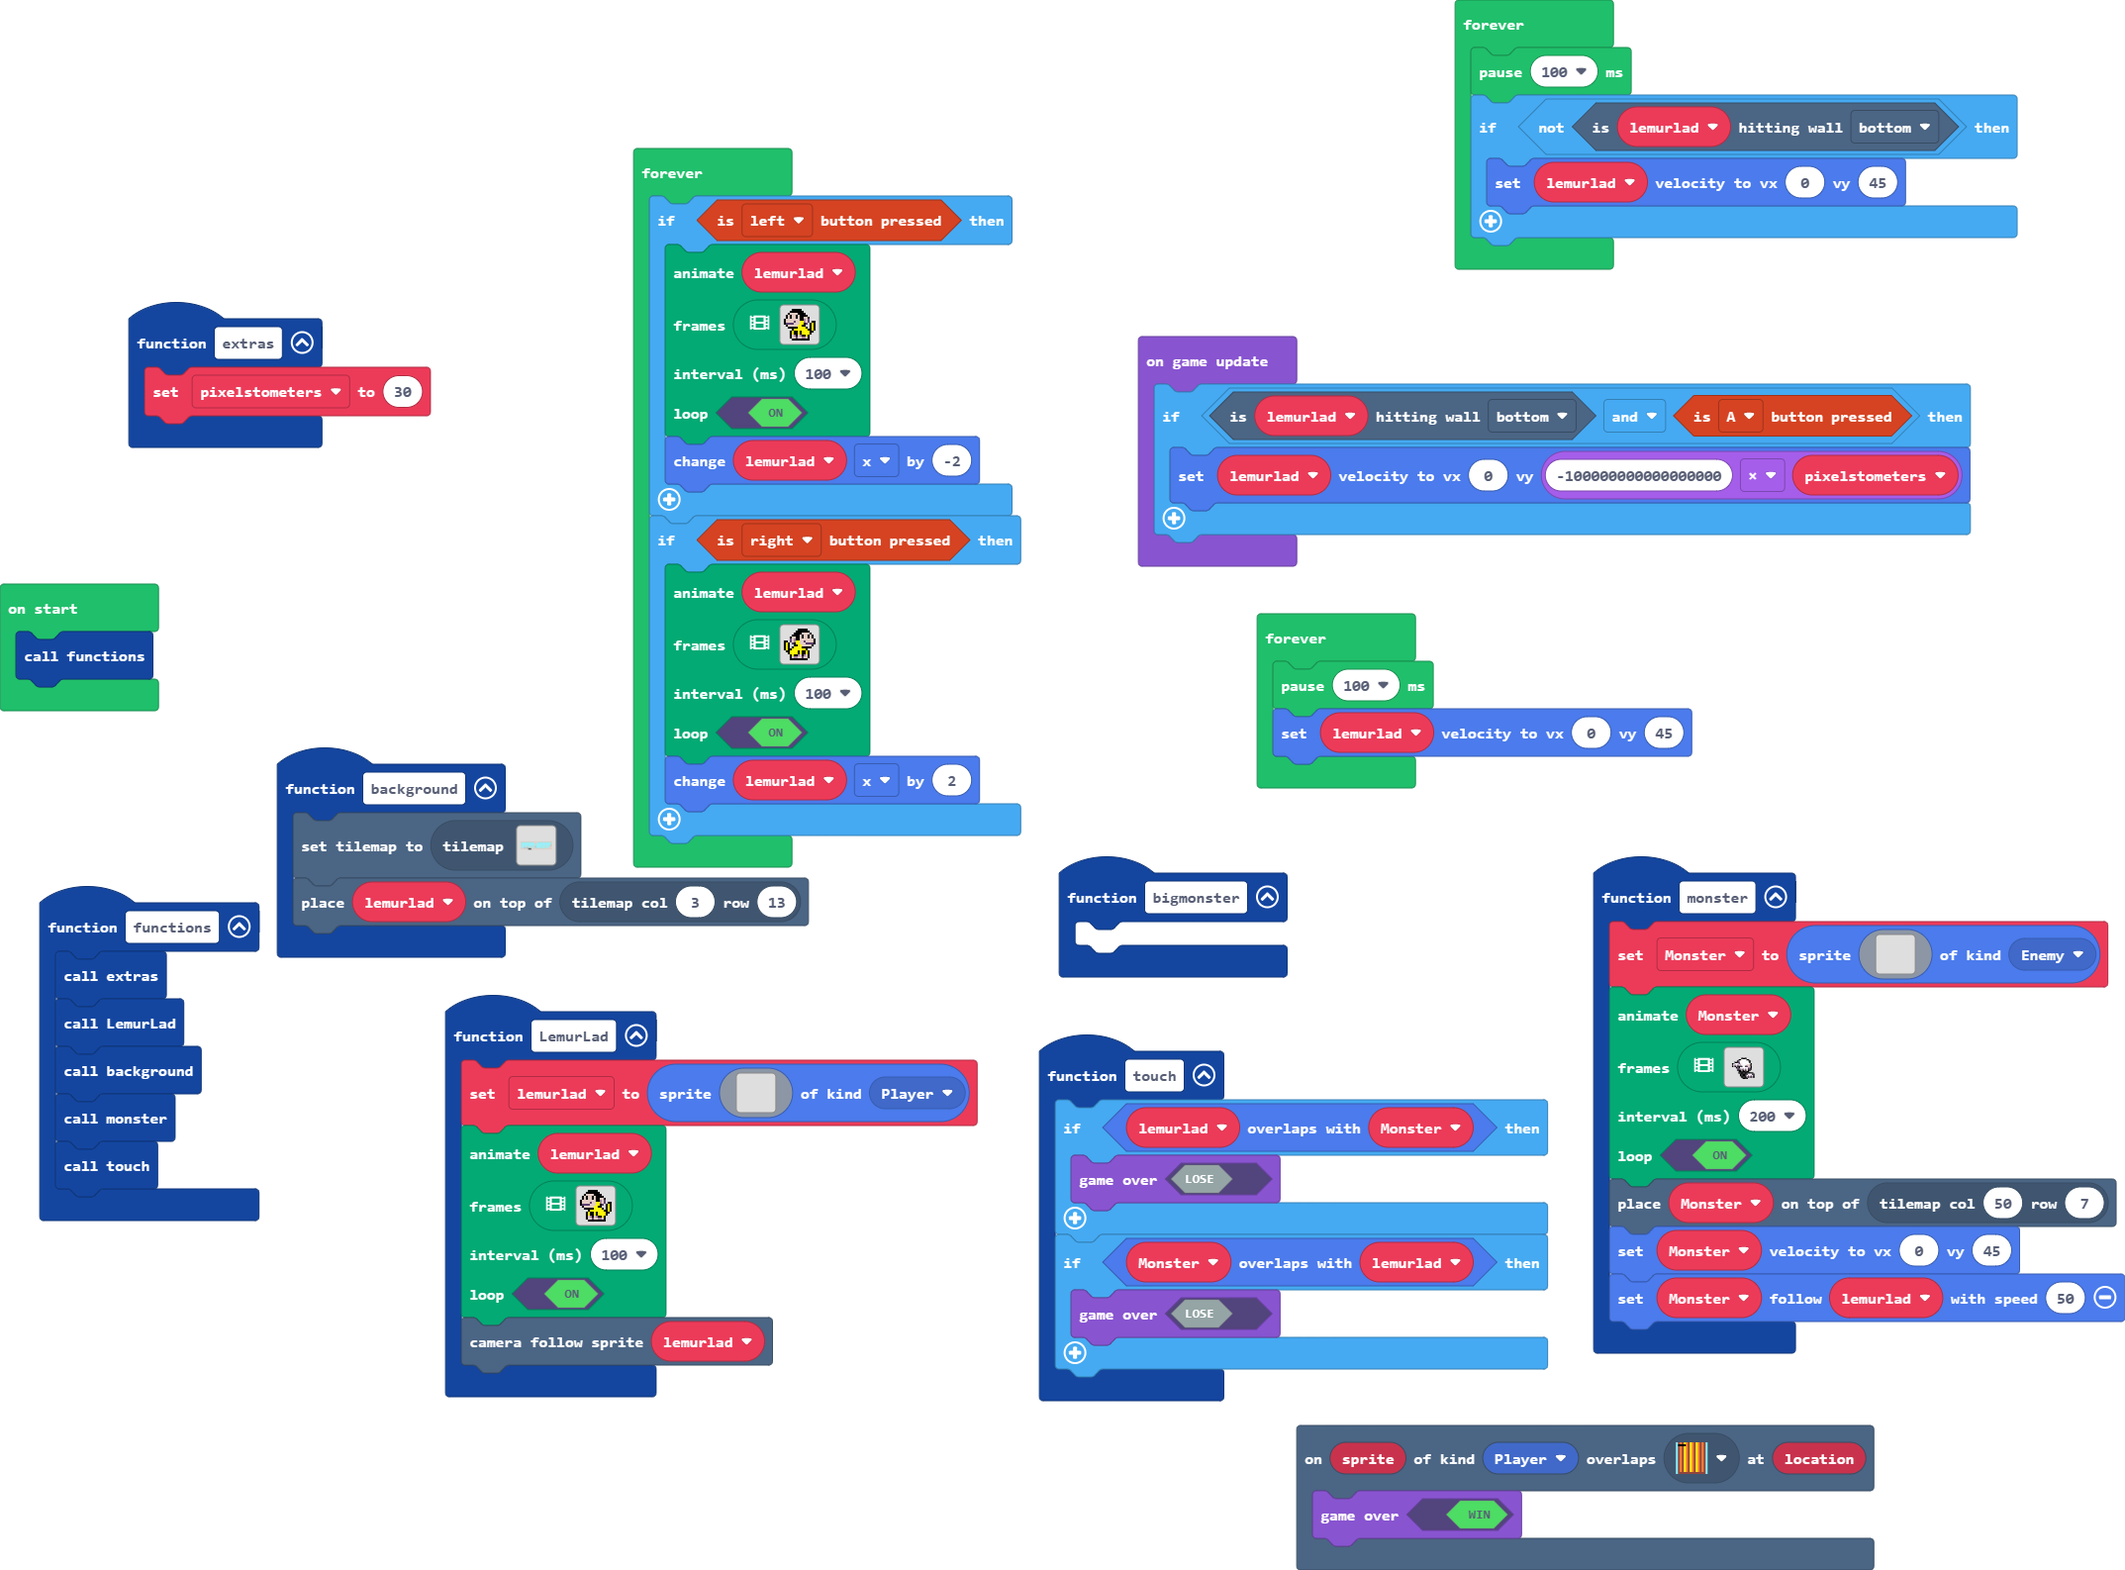
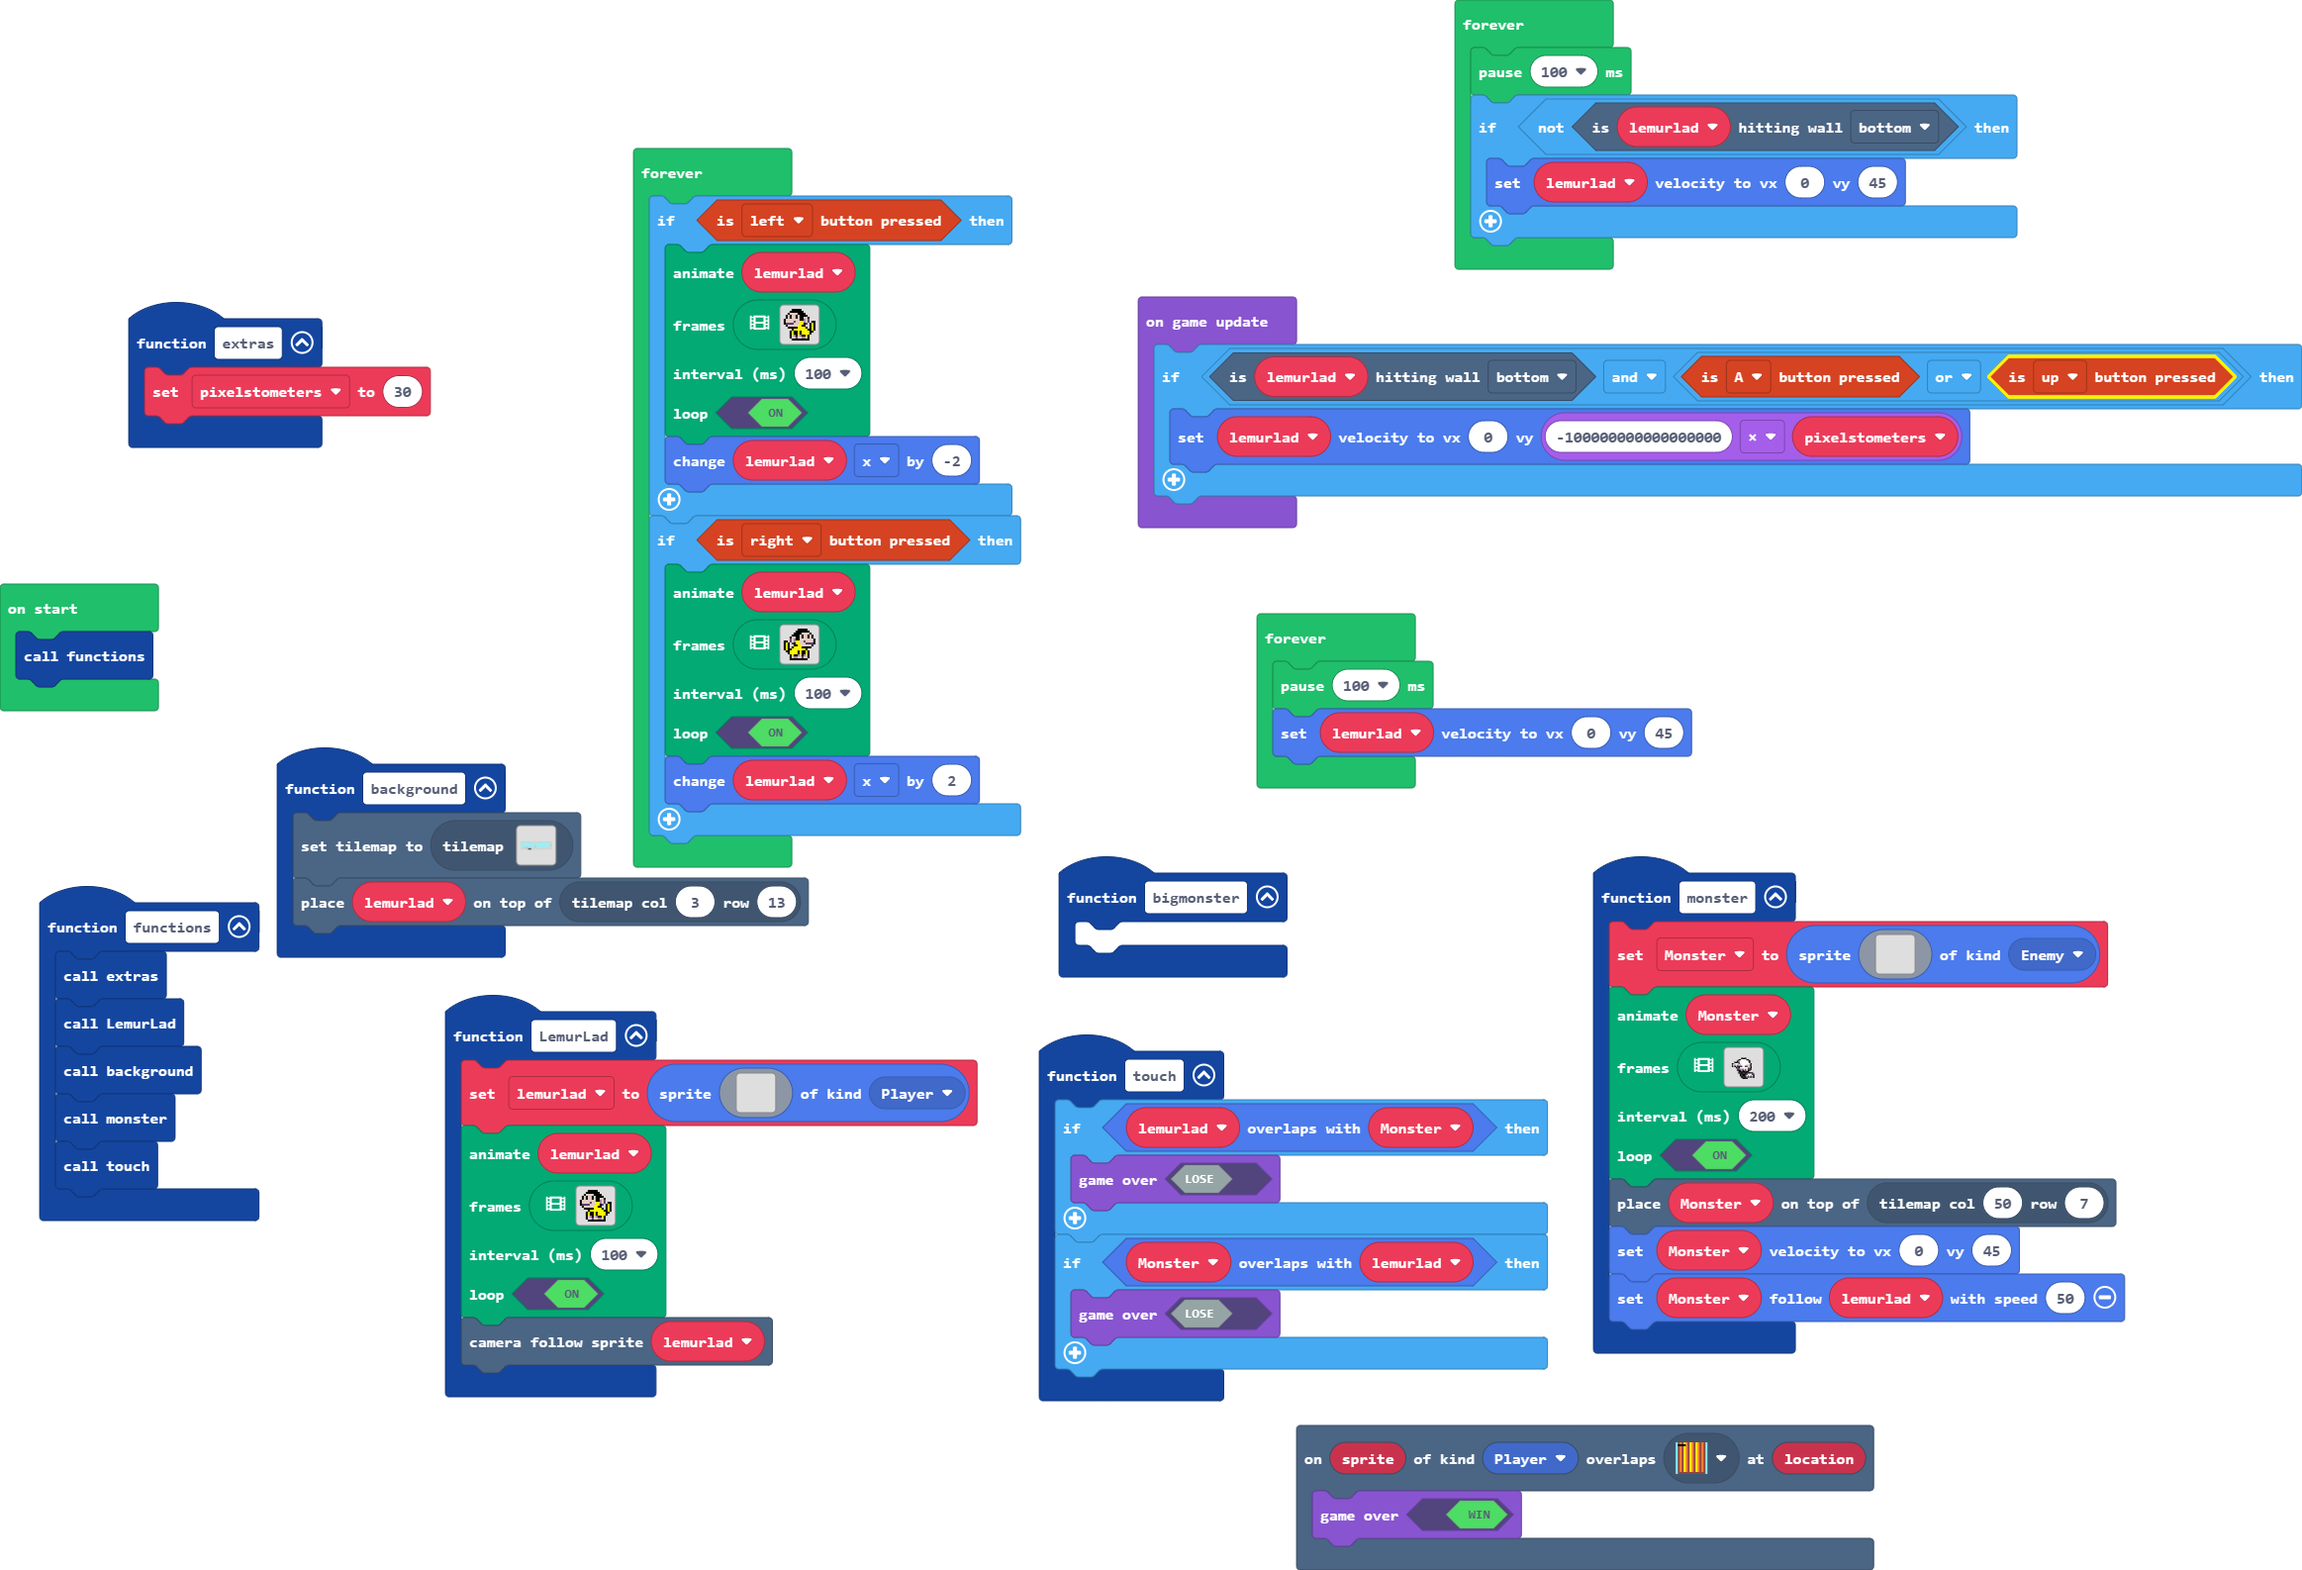
Update main.blocks, main.ts, images.g.jres, images.g.ts, tilemap.g.jres, tilemap.g.ts

diff --git a/tilemap.g.ts b/tilemap.g.ts
@@ -16,11 +16,13 @@ namespace myTiles {
     export const tile6 = image.ofBuffer(hex``);
     //% fixedInstance jres blockIdentity=images._tile
     export const tile7 = image.ofBuffer(hex``);
+    //% fixedInstance jres blockIdentity=images._tile
+    export const tile8 = image.ofBuffer(hex``);
 
     helpers._registerFactory("tilemap", function(name: string) {
         switch(helpers.stringTrim(name)) {
             case "level":
[2 lines of base64/hex data omitted]
 2222222222222222222222222222222222222222222222222222222222222222
 2222222222222222222222222222222222222222222222222222222222222222
 22..........................222222............................22
@@ -37,7 +39,7 @@ namespace myTiles {
 22...22...............2222..2222....22.22.......22..22..22222222
 2222222222222222......222222222222222222222222222222222222222222
 2222222222222222......222222222222222222222222222222222222222222
-`, [myTiles.transparency16,sprites.castle.tilePath5,myTiles.tile1,sprites.castle.tilePath8,sprites.castle.tilePath6,sprites.castle.tilePath2,sprites.castle.tilePath4,sprites.builtin.forestTiles6,sprites.builtin.forestTiles10,myTiles.tile2,myTiles.tile3,myTiles.tile4,myTiles.tile5,myTiles.tile7,myTiles.tile6], TileScale.Sixteen);
+`, [myTiles.transparency16,sprites.castle.tilePath5,myTiles.tile1,sprites.castle.tilePath8,sprites.castle.tilePath6,sprites.castle.tilePath2,sprites.castle.tilePath4,sprites.builtin.forestTiles6,sprites.builtin.forestTiles10,myTiles.tile3,myTiles.tile4,myTiles.tile5,myTiles.tile7,myTiles.tile6,myTiles.tile8], TileScale.Sixteen);
         }
         return null;
     })
@@ -59,6 +61,8 @@ namespace myTiles {
             case "tile6":return tile6;
             case "myTile5":
             case "tile7":return tile7;
+            case "myTile6":
+            case "tile8":return tile8;
         }
         return null;
     })

diff --git a/images.g.ts b/images.g.ts
@@ -439,7 +439,7 @@ f f f f 5 b d d f d d f d d f .
     helpers._registerFactory("song", function(name: string) {
         switch(helpers.stringTrim(name)) {
             case "song1":
[2 lines of base64/hex data omitted]
         }
         return null;
     })

diff --git a/main.ts b/main.ts
@@ -87,7 +87,7 @@ let Monster: Sprite = null
 let lemurlad: Sprite = null
 functions()
 game.onUpdate(function () {
-    if (lemurlad.isHittingTile(CollisionDirection.Bottom) && controller.A.isPressed()) {
+    if (lemurlad.isHittingTile(CollisionDirection.Bottom) && (controller.A.isPressed() || controller.up.isPressed())) {
         lemurlad.setVelocity(0, -100000000000000000 * pixelstometers)
     }
 })
